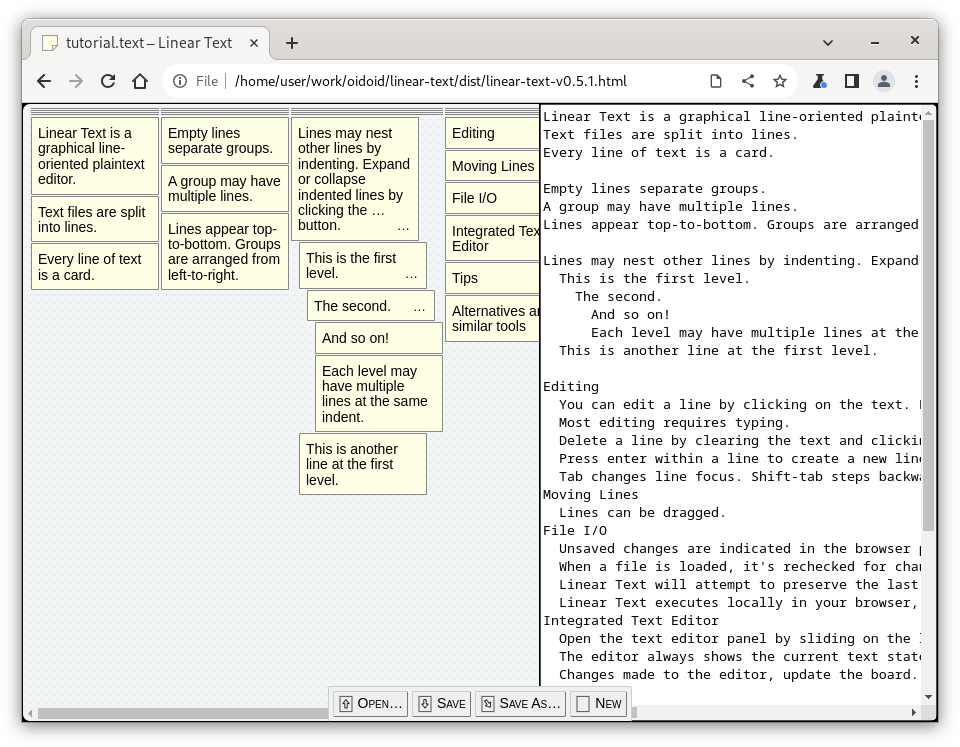
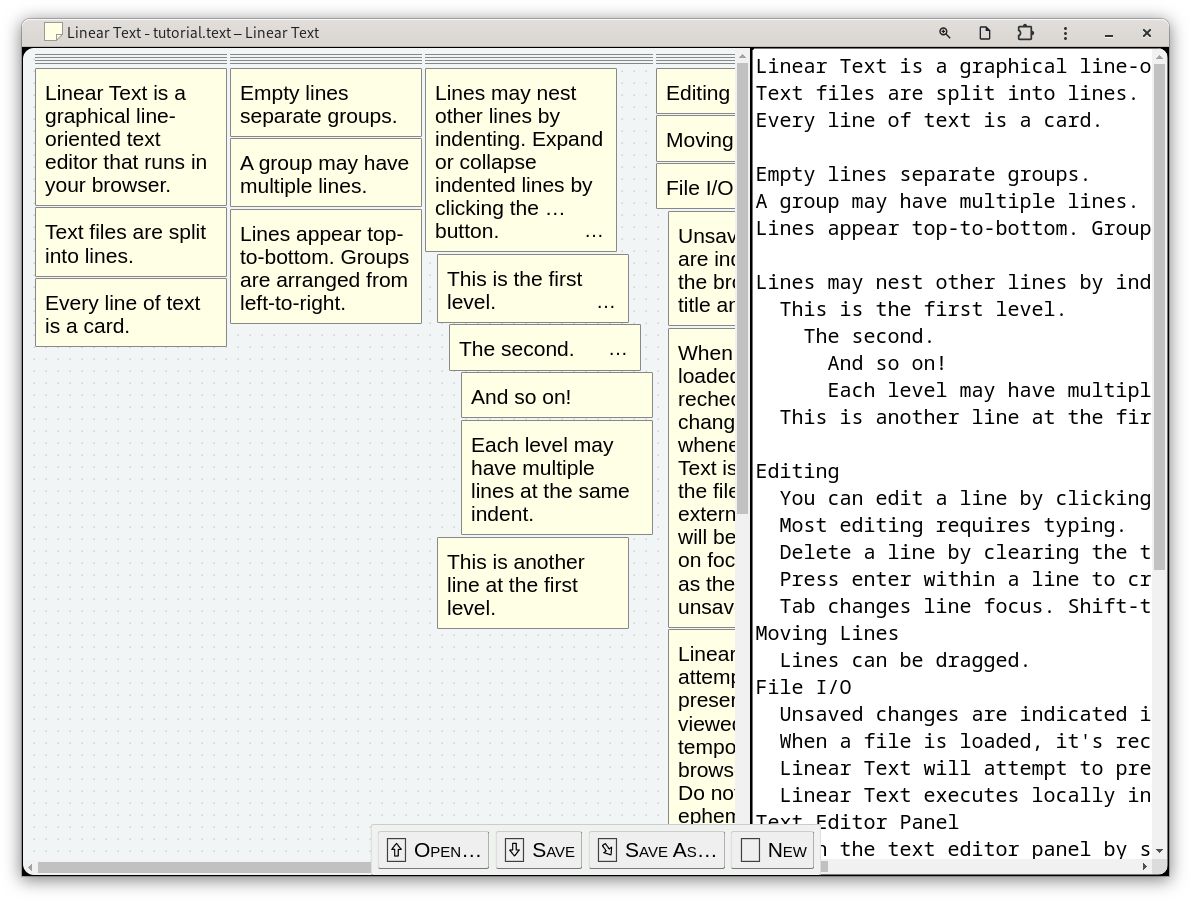
Update screenshots and installation instructions

Changed region(s): [[0.0, 0.0, 1.0, 0.9853]]

diff --git a/index.html b/index.html
@@ -73,8 +73,8 @@
               <img
                 alt="screenshot"
                 src="linear-text-screenshot.png"
-                width="480"
-                height="374"
+                width="512"
+                height="387"
             /></a>
           </center>
           <p>
@@ -94,9 +94,26 @@
             ready for evaluation.
           </p>
           <p>
-            <a download="linear-text.html" href="/v/latest">Download</a> the
-            latest version. Linear Text is a single file of self-contained,
-            portable HTML. Double-click to open.
+            The application is installable as a web app or downloadable as a
+            single file of self-contained, portable HTML. The web app is
+            preferable for most since it executes as a standlone application
+            instead of a browser tab and automatically updates. To install the
+            web app, visit
+            <a href="/edit">https://lineartext.com/edit</a> and click the
+            installation prompt.
+            <center>
+              <img
+                alt="installation screenshot"
+                src="install-screenshot.png"
+                width="388"
+                height="173"
+              />
+            </center>
+          </p>
+          <p>
+            Alternatively,
+            <a download="linear-text.html" href="/v/latest">download</a> the
+            latest version as portable HTML. Double-click to open.
           </p>
           <p>
             Read the
